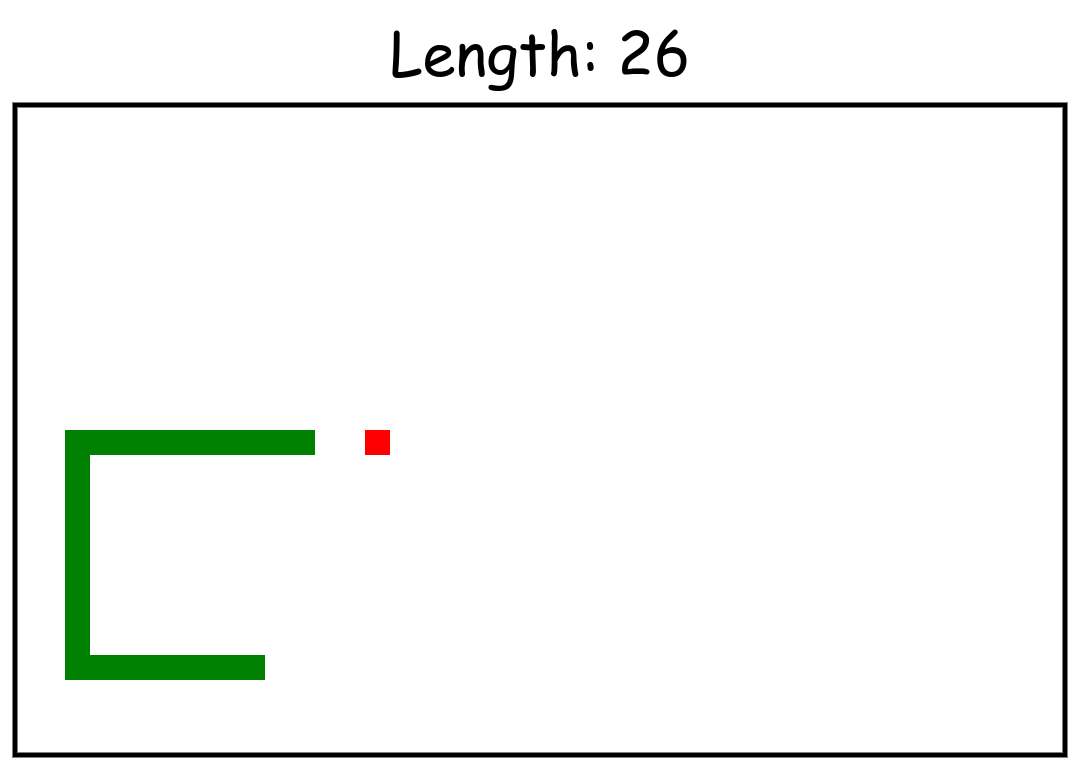
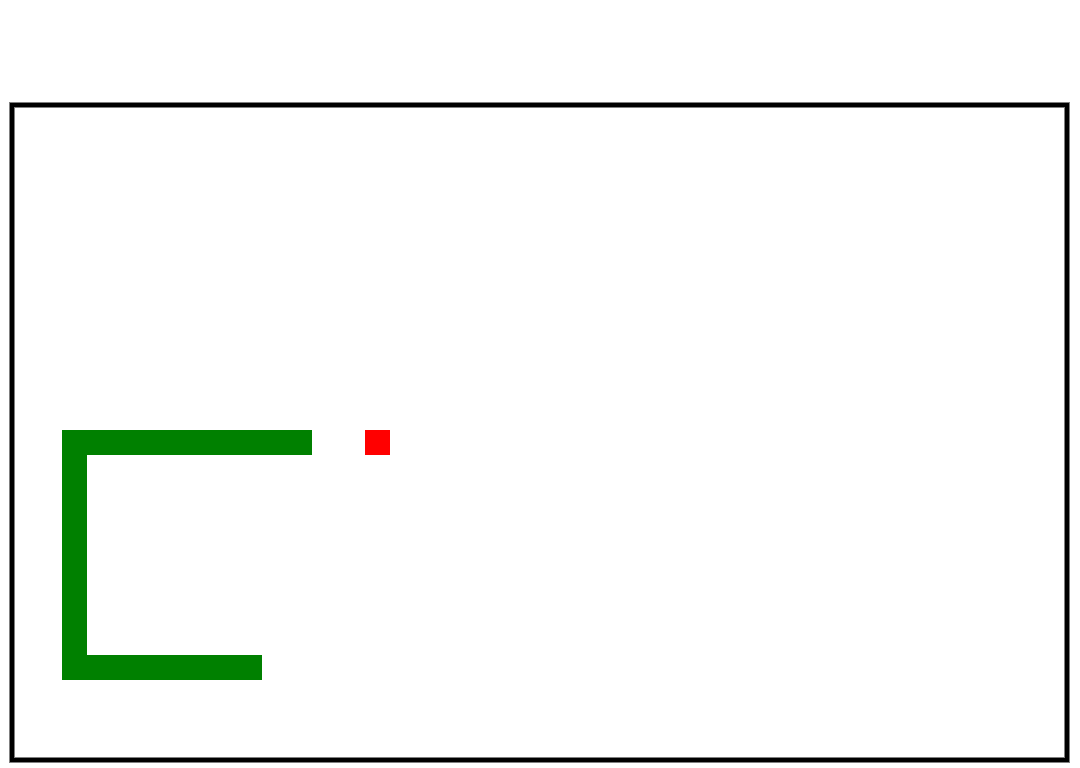
'Mute button added'

Changed region(s): [[0.0, 0.125, 1.0, 1.0], [0.3667, 0.0312, 0.55, 0.125], [0.5806, 0.0312, 0.6417, 0.125]]

diff --git a/Maps.js b/Maps.js
@@ -1,7 +1,7 @@
 var Init_Screen = {
 	Start: function(){
 		console.log("Initializing game...");
-		Game.PlayAudio("Sounds/Start_Screen.mp3");
+		Game.music.handler.PlayAudio("Sounds/Start_Screen.mp3");
 		Game.Load(Start_Screen);
 	},
 	Update: function(){
@@ -142,7 +142,7 @@ var WormThumb = {
 		console.log("Loaded WormThumb");
 	},
 	Update: function(){
-		/*if(Game.Elements["resetButton"].Contains(Game.click)){
+		if(Game.Elements["resetButton"].Contains(Game.click)){
 			Game.click.Set(null, null);
 			Game.Reset();
 		}
@@ -150,7 +150,7 @@ var WormThumb = {
 			Game.click.Set(null, null);
 			console.log("Moving to Game Selection");
 			Game.Load(Game_Selection);
-		}*/
+		}
 	},
 	"background": new Rectangle(0, 0, 1080, 768, "white"),
 	"border": {
@@ -162,12 +162,11 @@ var WormThumb = {
 	"bottomSegment": new Rectangle(62, 655, 200, 25, "green"),
 	"middleSegment": new Rectangle(62, 455, 25, 200, "green"),
 	"topSegment": new Rectangle(62, 430, 250, 25, "green"),
-	"apple": new Rectangle(365, 430, 25, 25, "red")
-	/*"length": new Text(540, 105 - 30, "Length: 26", "60px Comic Sans MS"),
+	"apple": new Rectangle(365, 430, 25, 25, "red"),
 	"backButton": new Rectangle(780, 0, 315, 75, "cyan"),
 	"backText": new Text(780 + 150, 60, "<- BACK", "60px Comic Sans MS"),
 	"resetButton": new Circle(0, 0, 50, "red"),
-	"resetText": new Text(50, 100 - 35, "RESET", "30px Comic Sans MS")*/
+	"resetText": new Text(50, 100 - 35, "RESET", "30px Comic Sans MS")
 }
 
 var BarrelRollerThumb = {
@@ -222,11 +221,29 @@ var BarrelRollerThumb = {
 var WormGame = {
 	Start: function(){
 		console.log("Loaded Worm");
-		var velocity = new Vector2(1, 0),
-			length			
+		var direction = new Vector2(1, 0),
+			started = false,
+			//CheckTick(10),
+			points = 0,
+			gridDim = new Vector2(41, 25),
+			worm = new Vector2(1, 1),
+			prevPos = [],
+			blockSize = 25;
+		function startGame(){
+			if(!started){
+				
+			}
+		}
 	},
 	Update: function(){
+		if(Game.keys){
 
+
+			if (Game.keys[65]) direction.Set(-1, 0);
+			if (Game.keys[68]) direction.Set(1, 0);
+			if (Game.keys[87]) direction.Set(0, -1);
+			if (Game.keys[83]) direction.Set(0, 1);
+		}
 	},
 	"background": new Rectangle(0, 0, 1080, 768, "white"),
 	"border": {

diff --git a/Core.js b/Core.js
@@ -12,6 +12,20 @@ var Game = {
     this.music = new Audio();
     this.ElementUpdate = null;
     this.music.loop = true;
+    this.music.handler = {
+      PlayAudio: async function(src){
+        try{
+          Game.music.src = src;
+          await Game.music.play();
+          console.log("Playing: " + src);
+        } catch(err) {
+          throw new Error(err);
+        }
+      },
+      Mute: function(){
+        Game.music.muted = !Game.music.muted;
+      }
+    }
     //Creates a boolean array for each key
     //Allows for subcardinal movement
     window.addEventListener('keydown', function(e) {
@@ -25,15 +39,6 @@ var Game = {
     Game.canvas.addEventListener('click', function(e){
       Game.click.Set(e.clientX - Game.canvas.getBoundingClientRect().left, e.clientY - Game.canvas.getBoundingClientRect().top);
     });
-  },
-  PlayAudio: async function(src){
-    try{
-      this.music.src = src;
-      await this.music.play();
-      console.log("Playing: " + src);
-    } catch(err) {
-      throw new Error(err);
-    }
   },
   CheckTick: function(ticks) {
     if ((this.frame / ticks) % 1 == 0) {

diff --git a/Initialize.js b/Initialize.js
@@ -3,11 +3,17 @@ function StartGame() {
   Game.Load(Init_Screen);
 }
 function UpdateGame(){
-  Game.Clear();
-  Game.frame++;
-  for (var i = 0; i < Object.keys(Game.Elements).length; i++) {
-    Game.Elements[Object.keys(Game.Elements)[i]].Draw();
-    Game.ElementUpdate();
-  }
+  	Game.Clear();
+  	Game.frame++;
+  	for (var i = 0; i < Object.keys(Game.Elements).length; i++) {
+    	Game.Elements[Object.keys(Game.Elements)[i]].Draw();
+    	Game.ElementUpdate();
+ 	}
+  	if (Game.keys) {
+      		if (Game.keys[77]){ 
+      		Game.music.handler.Mute();
+      		Game.keys[77] = false;
+      	}
+  	}
 }
 
